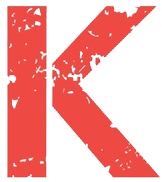
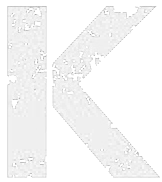
'Beta_0.7.28_c0_h0_j13_1.0.63final'

diff --git a/index.html b/index.html
@@ -119,32 +119,32 @@
 					<p class="warning">*приносим свои извинения, но версия для iOS ещё не доступна(</p>
 				</div>
 			</section>
-			<h1>Наша команда дефективных</h1>
+			<h1>Наша команда</h1>
 			<section class="team">
 				<div class="card">
-					<img src="temp/avatarka/kanekiken2v1.jpg" height="80" width="80">
+					<img src="temp/avatarka/kanekiken2v1.jpg">
 					<p>Ванёк Котов</p>
-					<p>Я писал этот ****** сайт и делал в это время кучу лаб так что димас мне должен</p>
+					<p>Местный Frontend Developer, Дима ему должен за эту разработку миллиард евро и женщин</p>
 				</div>
 				<div class="card">
-					<img src="temp/avatarka/02.jpg" height="80" width="80">
+					<img src="temp/avatarka/02.jpg">
 					<p>Демас</p>
 					<p>Главный программист, местный Full stack Senior Middle 300k/sec Developer</p>
 				</div>
 				<div class="card">
-					<img src="temp/avatarka/tenor.gif" height="80" width="80">
-					<p>Никита (не выпендривайся)</p>
-					<p>Гений доты, демотиватор, лучший мидовый Dawnbreaker на свете!</p>
+					<img src="temp/avatarka/tenor.gif">
+					<p>Никита</p>
+					<p>Гений доты, демотиватор, считает что его заслуги принижены, но на самом деле нет</p>
 				</div>
 				<div class="card">
-					<img src="temp/avatarka/sedina.jpg" height="80" width="80">
-					<p>Тамерлан (тестер и главный фанат)</p>
-					<p>Просто хороший друг и товарищ, всегда приготовит поесть но не умеет мыть посуду</p>
+					<img src="temp/avatarka/sedina.jpg">
+					<p>Тамерлан (тестер)</p>
+					<p>Просто хороший друг и товарищ, всегда приготовит поесть и протестирует приложение, не умеет мыть посуду</p>
 				</div>
 				<div class="card">
-					<img src="temp/avatarka/kaneki2.jpg" height="80" width="80">
-					<p>Макс спонсор (купил поесть)</p>
-					<p>В команде он просто потому что как то купил поесть из-за чего я не умер с голоду</p>
+					<img src="temp/avatarka/kaneki2.jpg">
+					<p>Макс (инвестор)</p>
+					<p>В команде он просто потому что как то купил поесть, а ещё английский в универе делает</p>
 				</div>
 			</section>
 			<section class="form">

diff --git a/js/script.js b/js/script.js
@@ -228,7 +228,7 @@ anime({
    let N = new Image();
    N.src = "img/lettersNobg/n.png";
    let KAMEN = new Image();
-   KAMEN.src = "img/lettersNobg/kamen.png"
+   KAMEN.src = "img/lettersNobg/kamengray.png"
    let KAMENdiv = document.createElement("div");
    KAMENdiv.append(KAMEN);
    
@@ -257,7 +257,7 @@ anime({
    tl.add({
     targets: divs,
     opacity: 1,
-    translateY: 400,
+    translateY: 450,
     translateX: 175,
     rotate: {
       value: '1turn',
@@ -268,7 +268,7 @@ anime({
    });
    tl.add({
     targets: KAMENdiv,
-    translateY: 85,
+    translateY: 120,
     translateX: -65
    })
    tl.add({

diff --git a/css/style.css b/css/style.css
@@ -105,7 +105,7 @@ main {
 
 main h1 {
 	text-align: center;
-	color: #ff3300;
+	color: #555;
 }
 
 /*Верх с анимацией*/
@@ -336,7 +336,7 @@ main h1 {
 	margin: 3em auto;
 	padding: 0 10%;
 	text-align: center;
-	color:#FF4500;
+	color:#555;
 }
 /* download section */
 
@@ -374,6 +374,8 @@ main h1 {
 /* team */
 
 .team .card img {
+	height: 5em;
+	width: 5em;
 	border-radius: 50%;
 }
 
@@ -485,7 +487,7 @@ footer .footer-logo {
 
 footer h2 {
 	font-size: 36px;
-	color: #FF4500;
+	color: #555;
 }
 
 .footer__title_border {
